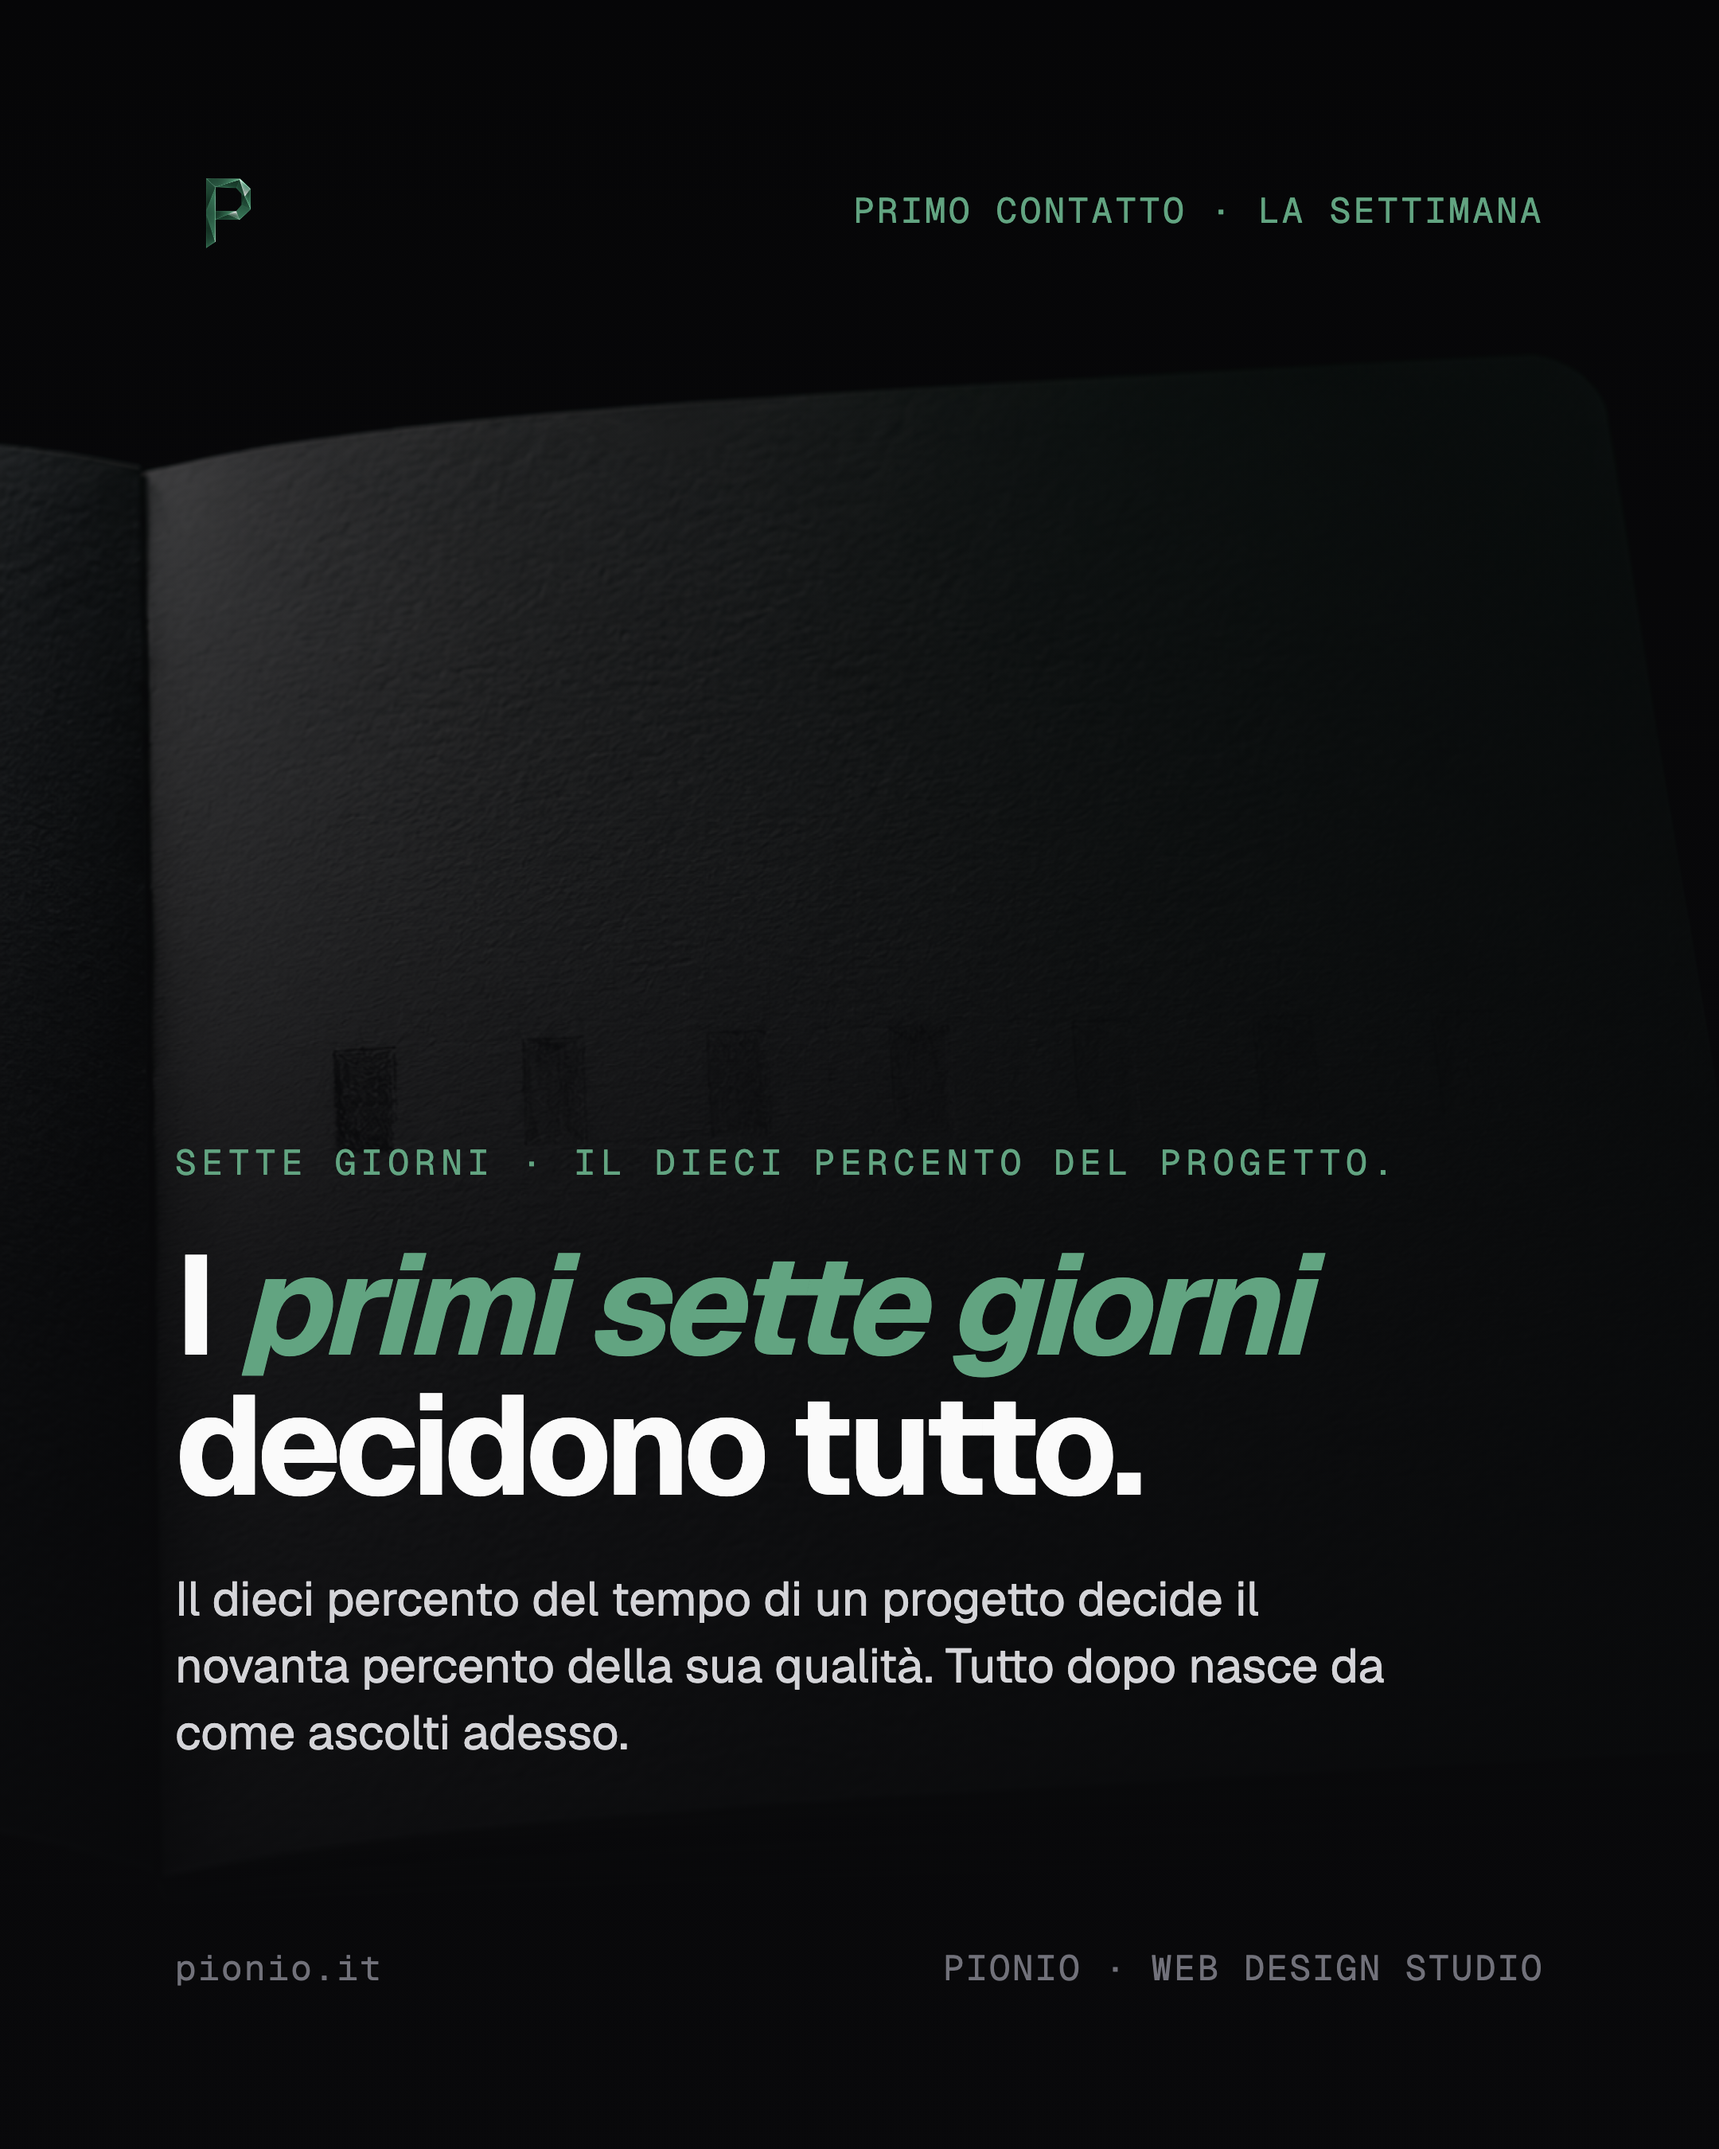
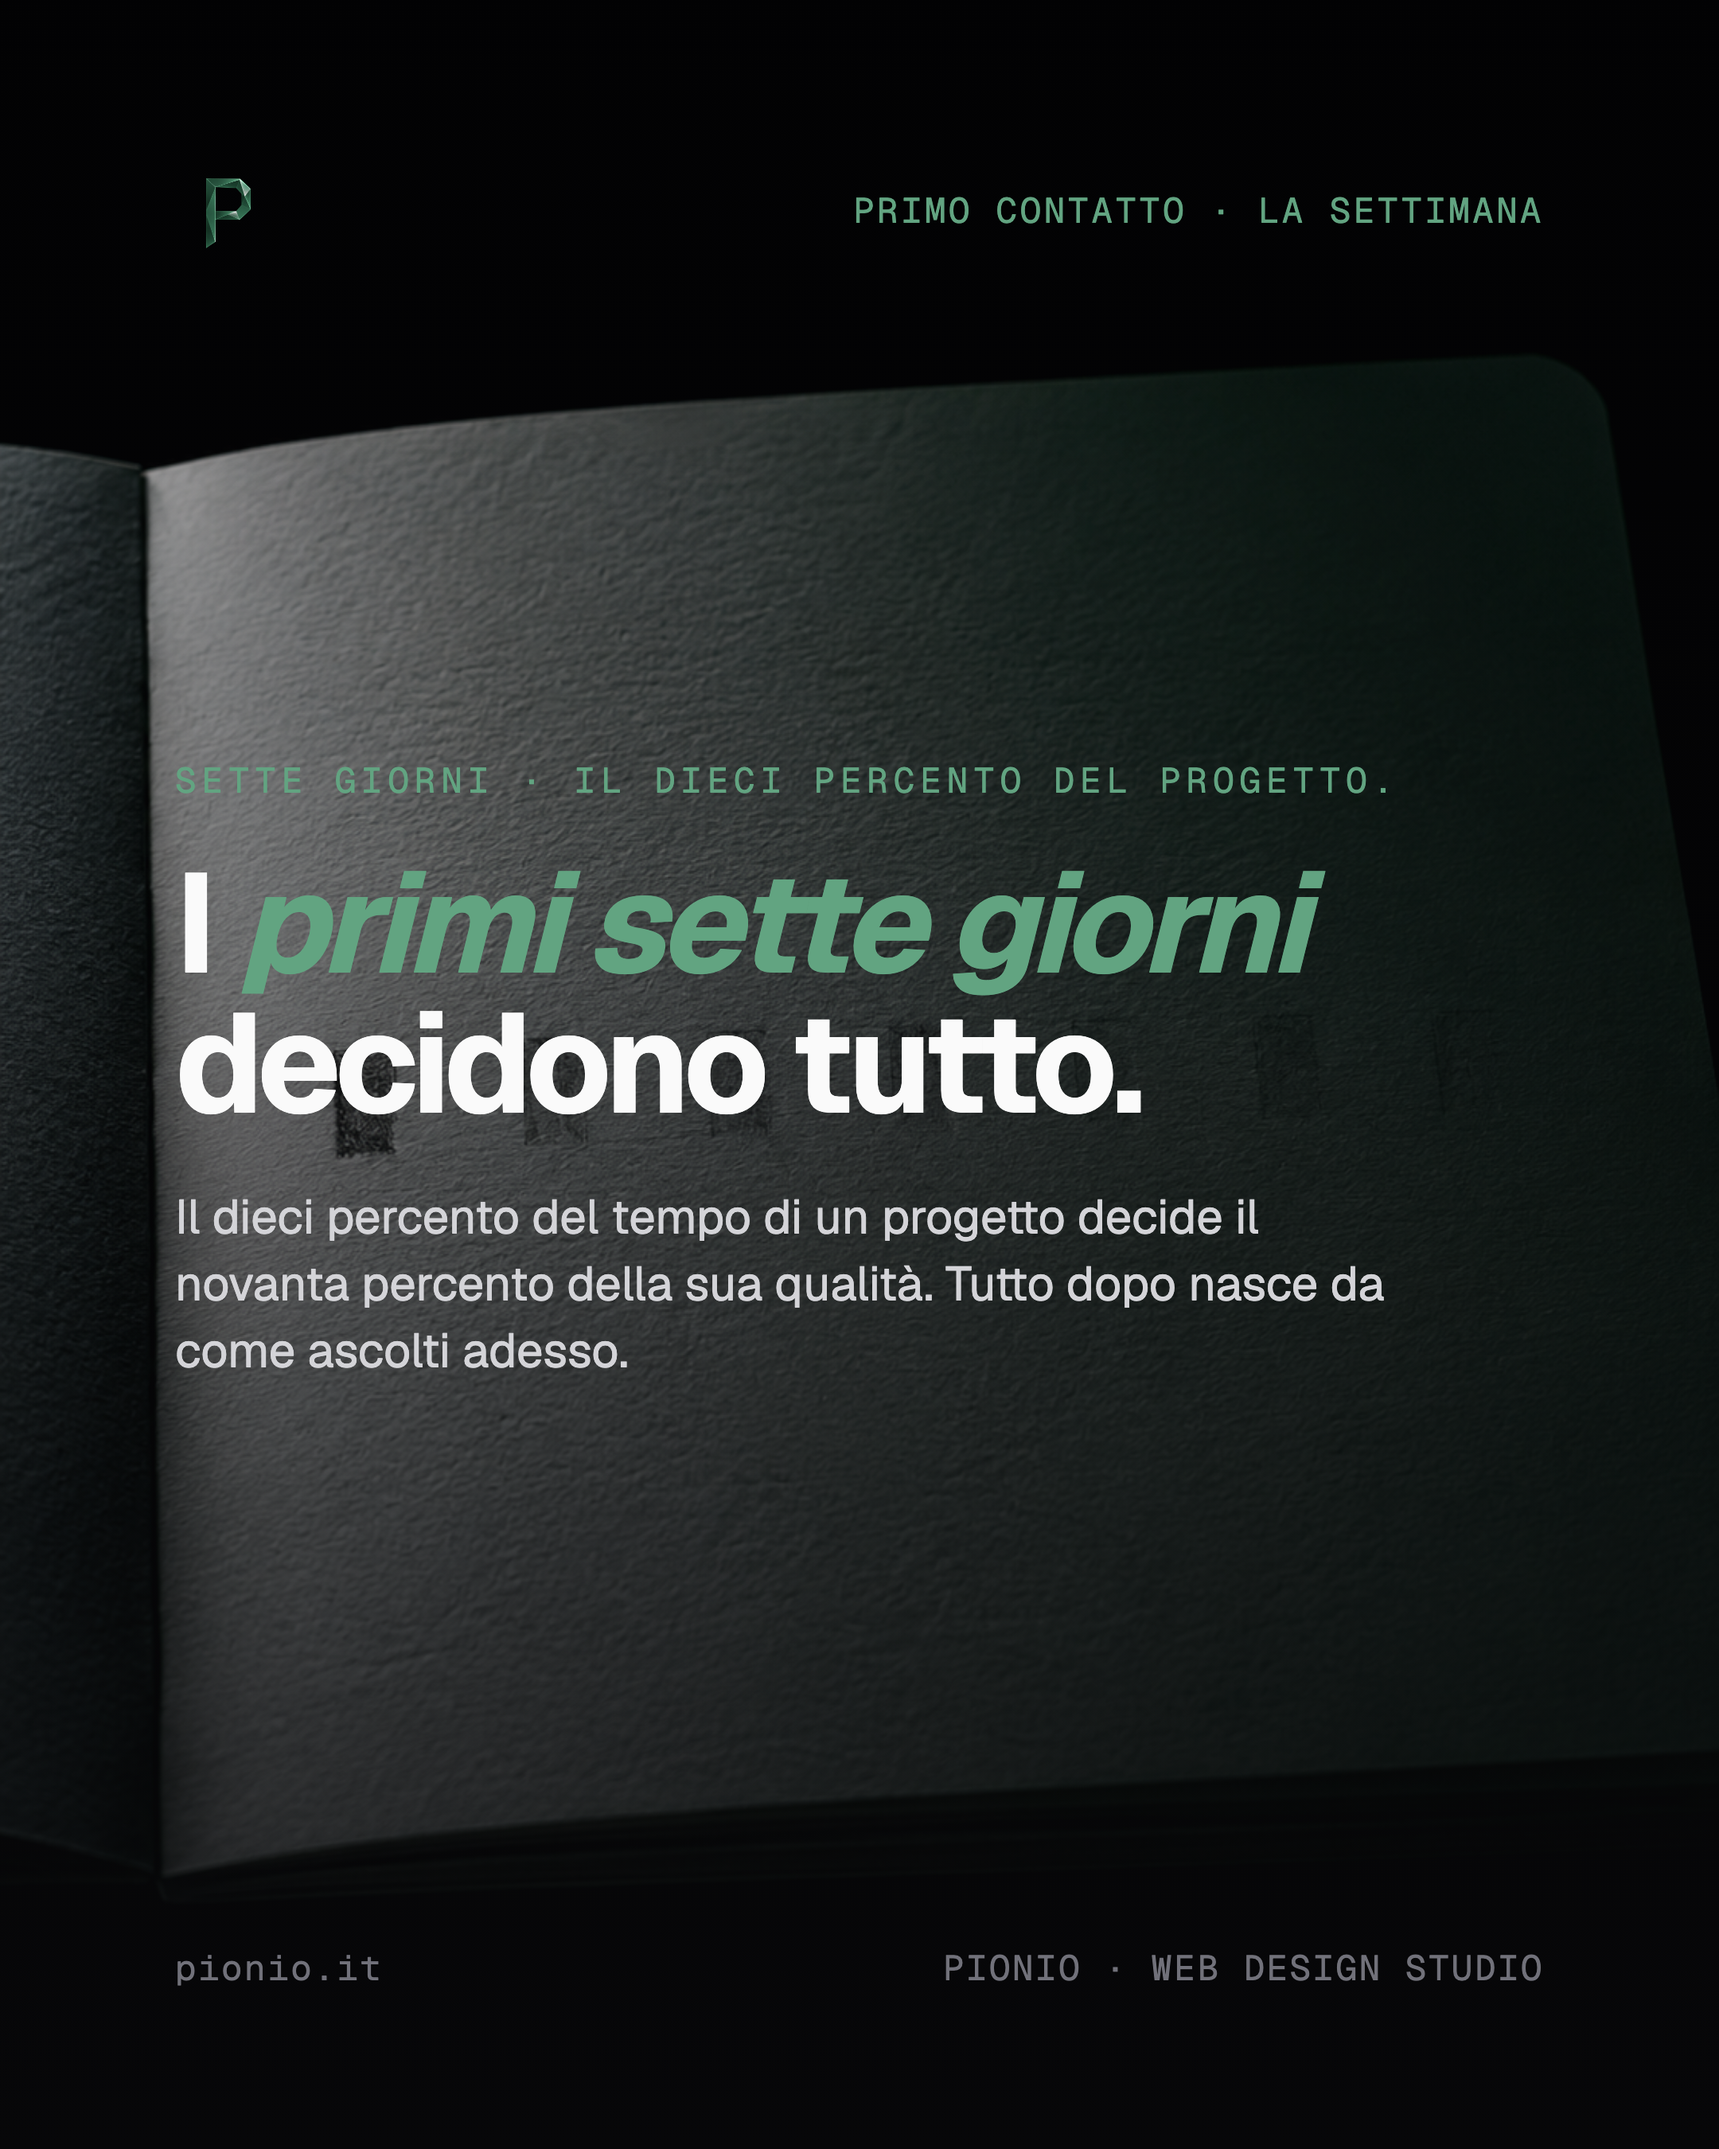
fix(instagram): W8 Hero rialzato + overlay morbido (immagine più visibile)

diff --git a/instagram/content/settimana-08-lug-2026/3-mer-8-13-hero-primi-sette-giorni/src/slides.html b/instagram/content/settimana-08-lug-2026/3-mer-8-13-hero-primi-sette-giorni/src/slides.html
@@ -15,16 +15,16 @@
 
   .slide { width: 1080px; height: 1350px; background: var(--bg); position: relative; overflow: hidden; }
 
-  .hero-img { position: absolute; inset: 0; width: 100%; height: 100%; object-fit: cover; object-position: center; display: block; opacity: 0.55; }
+  .hero-img { position: absolute; inset: 0; width: 100%; height: 100%; object-fit: cover; object-position: center; display: block; opacity: 0.85; }
 
-  .hero-overlay { position: absolute; inset: 0; background: linear-gradient(180deg, rgba(9,9,11,0.4) 0%, rgba(9,9,11,0.85) 60%, rgba(9,9,11,0.95) 100%); }
+  .hero-overlay { position: absolute; inset: 0; background: linear-gradient(180deg, rgba(9,9,11,0.15) 0%, rgba(9,9,11,0.35) 45%, rgba(9,9,11,0.75) 100%); }
 
   .header { position: absolute; top: 100px; left: 110px; right: 110px; display: flex; align-items: center; justify-content: space-between; z-index: 3; }
   .logo { width: 64px; height: 64px; }
   .logo img { width: 100%; height: 100%; object-fit: contain; }
   .eyebrow { font-family: "Geist Mono", monospace; font-weight: 400; font-size: 22px; color: var(--accent); letter-spacing: 0.08em; text-transform: uppercase; }
 
-  .main { position: absolute; left: 110px; right: 110px; bottom: 240px; z-index: 3; display: flex; flex-direction: column; gap: 32px; }
+  .main { position: absolute; left: 110px; right: 110px; bottom: 480px; z-index: 3; display: flex; flex-direction: column; gap: 32px; }
   .hero-kicker { font-family: "Geist Mono", monospace; font-size: 22px; color: var(--accent); letter-spacing: 0.16em; text-transform: uppercase; }
   .hero-title { font-family: "Geist", sans-serif; font-weight: 700; font-size: 88px; line-height: 1.0; letter-spacing: -0.04em; color: var(--text); max-width: 880px; }
   .hero-title em { font-style: italic; color: var(--accent); }
